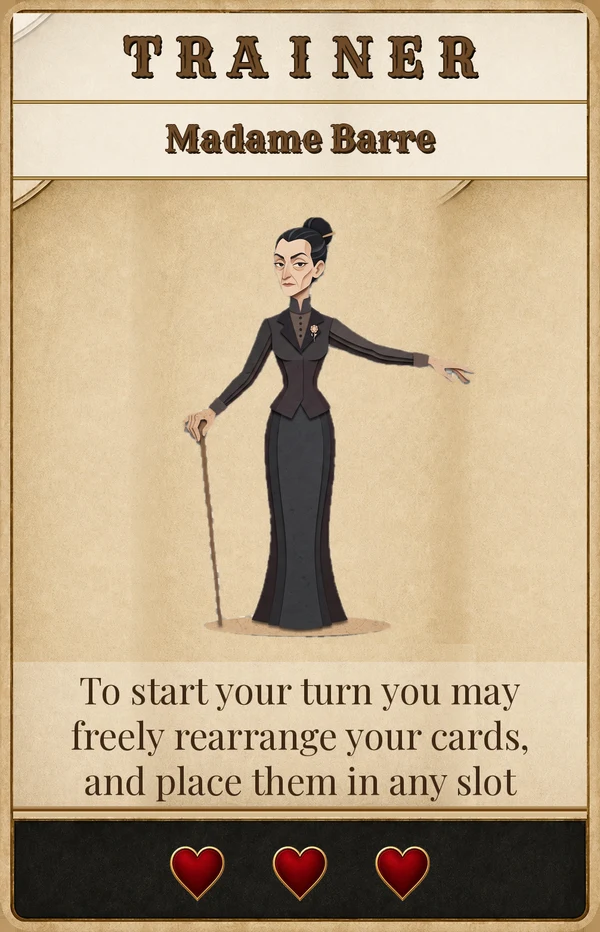
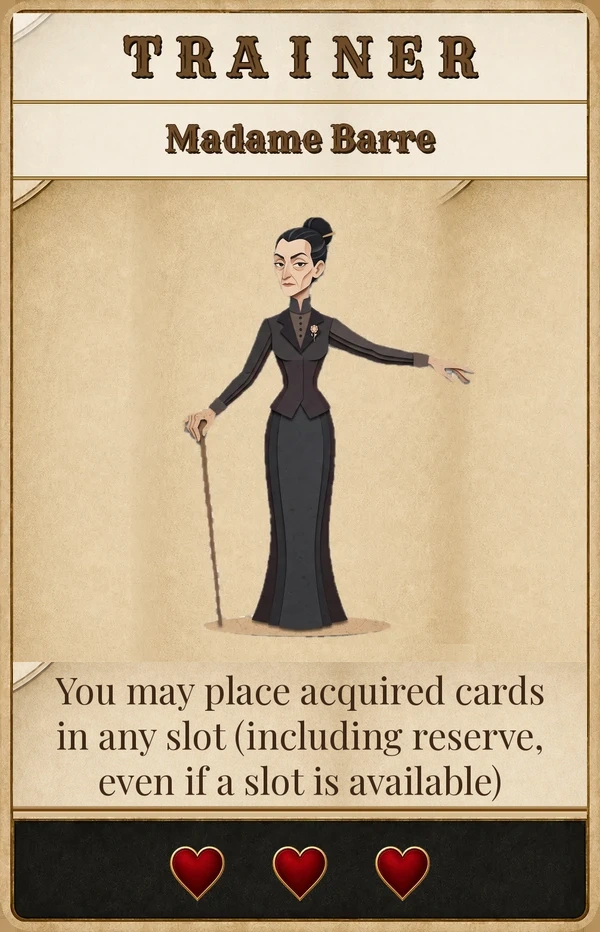
Madame Barre: redesign as acquisition-time placement choice, not free rearrange
- New ability: 'You may place acquired cards in any slot (including
  reserve, even if a slot is available).' Every acquisition (draft, market
  buy, or drawn card) while Barre is active now always offers a genuine
  placement prompt across all 8 mat slots or reserve, even when a matching
  natural slot is sitting open — it's never silently auto-filled.
- Removed the old free-standing 'freeRearrange' start-of-turn action
  entirely (both the engine action and the client's button/UI state).
- applyRearrange() no longer bypasses slot-type checks while Barre is
  active. A card already sitting in a mismatched slot (placed there via
  Barre's acquisition-time choice) may remain there untouched, but the
  normal turn-consuming 'rearrange' action can never introduce a *new*
  mismatch, with or without Barre.
- New rule: once Madame Barre is discarded (hearts hit zero, or a
  Trainer-discard effect), any reserve card that could now fill an empty,
  correctly-matching active slot is moved there automatically
  (relocateReserveOnBarreLeaving, wired into both heartHit and
  discardOwnedCard).
- Updated card_database.json ability text and re-rendered the trainer
  card's ability-text band (webp + print PNG).
- Rewrote/added rules.test.js coverage: freeRearrange is gone, acquisition
  always prompts with Barre active, mismatched-slot placement works,
  rearrange preserves-but-doesn't-create mismatches, and the leaving-play
[…]

Changed region(s): [[0.0, 0.6845, 0.9, 0.8712], [0.93, 0.6845, 0.96, 0.7468]]

diff --git a/engine/engine.js b/engine/engine.js
@@ -326,6 +326,7 @@ function heartHit(state, seat, slotIdx, why) {
   p.slots[slotIdx] = null;
   state.discard.push(id);
   log(state, `${p.name}'s ${card(id).name} (${SLOT_NAMES[slotIdx]}) loses its last heart and leaves the stage! (${why})`);
+  if (id === TRAINERS.BARRE) relocateReserveOnBarreLeaving(state, seat);
 }
 
 // ---------------------------------------------------------------------------
@@ -562,29 +563,29 @@ function acquireCard(state, seat, cardId, chosenSlot) {
       let slot = chosenSlot;
       if (slot != null) {
         if (!allowed.includes(slot)) throw new Error('That card cannot go in that slot.');
+      } else if (trainerActive(state, seat, TRAINERS.BARRE)) {
+        // Madame Barre: every acquisition is offered a genuine placement
+        // choice — any of the 8 mat slots, or reserve — even when a natural
+        // slot is sitting open. Never auto-filled while she's active.
+        pushPending(state, 'placement', seat, { cardId, allowedSlots: allowed, allowReserve: true });
+        return;
       } else if (c.cardType === 'performer') {
         // Default fill order: lowest empty Performer slot; if the row is
         // full, offer the bump-or-reserve choice above.
         slot = [0, 1, 2, 3, 4].find((i) => p.slots[i] == null);
         if (slot == null) {
-          pushPending(state, 'placement', seat, {
-            cardId,
-            allowedSlots: allowed.filter((i) => i <= 4 || trainerActive(state, seat, TRAINERS.BARRE)),
-            allowReserve: true,
-          });
+          pushPending(state, 'placement', seat, { cardId, allowedSlots: allowed, allowReserve: true });
           return;
         }
       } else if (c.cardType === 'trainer') {
         // Slot 8 (Trainer-only) is always tried first, automatically. Once
         // it's taken, the player chooses which of all 3 Trainer slots (6, 7,
         // or 8) to bump — or sends the newly acquired Trainer to reserve
-        // instead. (Madame Barre's passive still widens this to any of the
-        // 8 mat slots, same as every other acquisition while she's active.)
+        // instead.
         if (p.slots[7] == null) {
           slot = 7;
         } else {
-          const trainerAllowed = trainerActive(state, seat, TRAINERS.BARRE) ? allowed : [5, 6, 7];
-          pushPending(state, 'placement', seat, { cardId, allowedSlots: trainerAllowed, allowReserve: true });
+          pushPending(state, 'placement', seat, { cardId, allowedSlots: [5, 6, 7], allowReserve: true });
           return;
         }
       } else {
@@ -640,6 +641,27 @@ function discardOwnedCard(state, seat, cardId) {
   }
   state.hearts[cardId] = 0;
   state.discard.push(cardId);
+  if (cardId === TRAINERS.BARRE) relocateReserveOnBarreLeaving(state, seat);
+}
+
+// Madame Barre: while active, acquired cards may be freely parked in reserve
+// even when a matching active slot is open. Once she's discarded, that
+// standing exception ends — any reserve card that could now fill an empty,
+// correctly-matching active slot is immediately moved there. (Cards already
+// sitting in a mismatched active slot are unaffected — see applyRearrange —
+// and stay put until they themselves are discarded.)
+function relocateReserveOnBarreLeaving(state, seat) {
+  const p = state.players[seat];
+  for (const cardId of [...p.reserve]) {
+    const c = card(cardId);
+    if (!SLOTTABLE.has(c.cardType)) continue;
+    const emptySlot = SLOTS_FOR_TYPE[c.cardType].find((i) => p.slots[i] == null);
+    if (emptySlot == null) continue;
+    const ri = p.reserve.indexOf(cardId);
+    p.reserve.splice(ri, 1);
+    p.slots[emptySlot] = cardId;
+    log(state, `${p.name}'s ${c.name} moves from reserve into ${SLOT_NAMES[emptySlot]} — Madame Barre has left play.`);
+  }
 }
 
 // Jonas Quickfinger: collect exactly 1 unit of a card's printed resource
@@ -709,13 +731,18 @@ function intakeDrawnCard(state, seat, cardId) {
     acquireCard(state, seat, cardId, null);
     return;
   }
-  const natural = SLOTS_FOR_TYPE[c.cardType];
-  const emptySlot = natural.find((i) => p.slots[i] == null);
-  if (emptySlot != null) {
-    placeAcquiredCard(state, seat, cardId, emptySlot);
-    return;
-  }
   const allowed = allowedSlots(state, seat, cardId);
+  if (!trainerActive(state, seat, TRAINERS.BARRE)) {
+    const natural = SLOTS_FOR_TYPE[c.cardType];
+    const emptySlot = natural.find((i) => p.slots[i] == null);
+    if (emptySlot != null) {
+      placeAcquiredCard(state, seat, cardId, emptySlot);
+      return;
+    }
+  }
+  // Madame Barre active: always a genuine choice, any of the 8 mat slots
+  // (or reserve — see the 'cardResourcePlacement' resolution), even when a
+  // natural slot is open.
   pushPending(state, 'cardResourcePlacement', seat, { cardId, allowedSlots: allowed });
 }
 
@@ -1119,18 +1146,6 @@ export function applyAction(state, action) {
       state.turn.done = true;
       break;
     }
-    // Madame Barre: to start your turn, freely rearrange your board (any
-    // card in any slot) without spending your turn. Her passive "place
-    // anywhere" effect for normal acquisitions still applies separately
-    // (see allowedSlots) — this is an additional, explicit free action.
-    case 'freeRearrange': {
-      requireTurn(state, seat);
-      if (state.turn.mainDone) throw new Error('This must be used before your main turn action.');
-      if (!trainerActive(state, seat, TRAINERS.BARRE)) throw new Error('Madame Barre is not your active Trainer.');
-      applyRearrange(state, seat, action.slots, action.reserve);
-      log(state, `${nameOf(state, seat)} freely rearranges their troupe (Madame Barre) without using their turn.`);
-      break;
-    }
     // The Vanishing Valentino: to start your turn, you may end the draft
     // immediately (discarding whatever remains in the draft row) without
     // spending your turn. Unlimited uses while active.
@@ -1444,13 +1459,17 @@ function applyRearrange(state, seat, slots, reserve) {
   if (before.length !== after.length || before.some((id, i) => id !== after[i])) {
     throw new Error('Rearranging cannot add or remove cards.');
   }
-  const barre = trainerActive(state, seat, TRAINERS.BARRE) || slots[5] === TRAINERS.BARRE || slots[6] === TRAINERS.BARRE || slots[7] === TRAINERS.BARRE;
   for (let i = 0; i < 8; i++) {
     const id = slots[i];
     if (!id) continue;
     const c = card(id);
     if (!SLOTTABLE.has(c.cardType)) throw new Error(`${c.name} cannot occupy a mat slot.`);
-    if (!barre && !SLOTS_FOR_TYPE[c.cardType].includes(i)) {
+    // A card already sitting in a mismatched slot (placed there earlier via
+    // Madame Barre's acquisition-time choice) may remain there untouched —
+    // it isn't forced out until it's discarded — but rearranging can never
+    // introduce a *new* type mismatch.
+    const alreadyThere = p.slots[i] === id;
+    if (!alreadyThere && !SLOTS_FOR_TYPE[c.cardType].includes(i)) {
       throw new Error(`${c.name} cannot go in ${SLOT_NAMES[i]}.`);
     }
   }

diff --git a/test/rules.test.js b/test/rules.test.js
@@ -588,21 +588,49 @@ test('The Vanishing Valentino ends the draft immediately, at no turn cost, and i
   assert.equal(s.round, 2);
 });
 
-test('freeRearrange: Madame Barre may rearrange for free (any slot), without ending the turn', () => {
+test('freeRearrange no longer exists — Madame Barre only affects acquisition placement now', () => {
+  const s = freshGame(2);
+  const seat = currentSeat(s);
+  s.players[seat].slots[7] = TRAINERS.BARRE;
+  assert.throws(
+    () => applyAction(s, { type: 'freeRearrange', seat, slots: [...s.players[seat].slots], reserve: [] }),
+    /Unknown action type/
+  );
+});
+
+test('Madame Barre: acquiring a card always offers a genuine placement choice, even with an empty natural slot open', () => {
+  const s = freshGame(2);
+  const seat = currentSeat(s);
+  const p = s.players[seat];
+  p.slots[7] = TRAINERS.BARRE;
+  // All 5 Performer slots are empty — without Barre this would auto-fill
+  // slot 0 silently. With Barre active it must still prompt.
+  const perf = db.performers[0].id;
+  s.draftRow[0] = perf;
+  applyAction(s, { type: 'acquireDraft', seat, cardId: perf });
+  assert.equal(p.slots[0], null, 'not auto-filled while Barre is active');
+  const pending = s.pending.find((x) => x.kind === 'placement');
+  assert.ok(pending, 'expected a placement prompt');
+  assert.deepEqual(pending.data.allowedSlots, [0, 1, 2, 3, 4, 5, 6, 7], 'any of the 8 mat slots');
+  assert.equal(pending.data.allowReserve, true);
+
+  // Choosing reserve, despite an open matching slot, is honored.
+  applyAction(s, { type: 'resolvePending', seat, pendingId: pending.id, toReserve: true });
+  assert.ok(p.reserve.includes(perf));
+  assert.equal(p.slots[0], null);
+});
+
+test('Madame Barre: acquired cards may be placed in a mismatched slot', () => {
   const s = freshGame(2);
   const seat = currentSeat(s);
   const p = s.players[seat];
   p.slots[7] = TRAINERS.BARRE;
   const perf = db.performers[0].id;
-  p.slots[0] = perf;
-  applyAction(s, {
-    type: 'freeRearrange', seat,
-    slots: [null, null, null, null, null, null, perf, TRAINERS.BARRE],
-    reserve: [],
-  });
-  assert.equal(p.slots[6], perf, 'Barre allows any card in any slot');
-  assert.equal(s.turn.seat, seat, 'still the same turn — free rearrange does not end it');
-  assert.equal(s.turn.mainDone, false);
+  s.draftRow[0] = perf;
+  applyAction(s, { type: 'acquireDraft', seat, cardId: perf });
+  const pending = s.pending.find((x) => x.kind === 'placement');
+  applyAction(s, { type: 'resolvePending', seat, pendingId: pending.id, slot: 6 });
+  assert.equal(p.slots[6], perf, 'a Performer may sit in the Prop/Trainer slot while Barre is active');
 });
 
 test('rearrange must conserve cards and respect slot types', () => {
@@ -642,6 +670,47 @@ test('rearrange must conserve cards and respect slot types', () => {
       reserve: [],
     })
   );
+});
+
+test('rearrange: a card already sitting in a mismatched slot (placed there via Madame Barre) may remain there, but a general rearrange can never introduce a new mismatch — even with Barre active', () => {
+  const s = freshGame(2);
+  const seat = currentSeat(s);
+  const p = s.players[seat];
+  const perfA = db.performers[0].id;
+  const perfB = db.performers[1].id;
+  p.slots[7] = TRAINERS.BARRE;
+  p.slots[6] = perfA; // mismatched: a Performer parked in the Prop/Trainer slot
+  // A no-op rearrange (the mismatched card stays exactly where it is) succeeds.
+  applyAction(s, { type: 'rearrange', seat, slots: [...p.slots], reserve: [...p.reserve] });
+  assert.equal(p.slots[6], perfA, 'unchanged mismatched placement survives a rearrange');
+  // But moving a *different* performer into a mismatched slot is still rejected.
+  p.reserve = [perfB];
+  assert.throws(() =>
+    applyAction(s, {
+      type: 'rearrange', seat,
+      slots: [null, null, null, null, null, perfB, perfA, TRAINERS.BARRE],
+      reserve: [],
+    })
+  );
+});
+
+test('Madame Barre leaving play: reserve cards that could now fill an empty matching slot move there automatically', () => {
+  const s = freshGame(2);
+  const seat = currentSeat(s);
+  const other = s.players.find((x) => x.seat !== seat);
+  const p = s.players[seat];
+  p.slots[7] = TRAINERS.BARRE;
+  s.hearts[TRAINERS.BARRE] = 0; // already at 0, next hit discards her immediately
+  const perf = db.performers[0].id;
+  p.reserve = [perf]; // parked in reserve (e.g. via Barre's choice) while slot 0 sits open
+  p.roundStars = 5;
+  other.roundStars = 0;
+
+  assignTrophy(s); // p wins the Trophy -> trophy fatigue hits every one of p's 8 slots
+  assert.equal(p.slots[7], null, 'Madame Barre was discarded');
+  assert.ok(s.discard.includes(TRAINERS.BARRE));
+  assert.equal(p.slots[0], perf, 'the reserved Performer automatically moved into the now-unlocked Performer slot');
+  assert.ok(!p.reserve.includes(perf));
 });
 
 test('deterministic dice phase: collection matches, boosts, trophies, tomato hits', () => {

diff --git a/client/src/main.js b/client/src/main.js
@@ -18,7 +18,6 @@ let assetVersion = ''; // from /api/cards — appended to card image URLs so a b
 // Transient UI state
 let ui = {
   mode: null, // null | 'rearrange' | 'amaraMove'
-  rearrangeFree: false, // true when the current 'rearrange' mode is Madame Barre's free (non-turn-consuming) rearrange
   rearrange: null, // { slots, reserve, picked: {zone, index} | null }
   amaraMove: null, // { from: cardId | null } — Amara the Reliquary's move-a-heart picker
   heartPlan: {}, // cardId -> amount, for heartAssign prompt
@@ -91,7 +90,6 @@ function announceTrophies(newLines) {
 
 function resetTransientUi() {
   ui.mode = null;
-  ui.rearrangeFree = false;
   ui.rearrange = null;
   ui.amaraMove = null;
   ui.heartPlan = {};
@@ -440,9 +438,7 @@ function turnBarHtml(s, p) {
   const buttons = [];
 
   if (ui.mode === 'rearrange') {
-    buttons.push(ui.rearrangeFree
-      ? `<button id="confirmRearrange" class="primary">Confirm free rearrangement (Madame Barre)</button>`
-      : `<button id="confirmRearrange" class="primary">Confirm arrangement (ends turn)</button>`);
+    buttons.push(`<button id="confirmRearrange" class="primary">Confirm arrangement (ends turn)</button>`);
     buttons.push(`<button id="cancelMode">Cancel</button>`);
   } else if (ui.mode === 'amaraMove') {
     buttons.push(`<span class="yourturn">${ui.amaraMove?.from
@@ -456,9 +452,6 @@ function turnBarHtml(s, p) {
       if (trainers.includes('Tomasso-the-Terrible')) {
         const n = dancerCountOf(p);
         buttons.push(`<button id="tomassoBtn" ${n >= 1 ? '' : 'disabled'} title="${n < 1 ? 'You need at least 1 Dancer on your board' : ''}">Tomasso the Terrible: roll ${n} Tomato ${n === 1 ? 'die' : 'dice'} (uses turn)</button>`);
-      }
-      if (trainers.includes('Madame-Barre')) {
-        buttons.push(`<button id="freeRearrangeBtn">Madame Barre: freely rearrange (free)</button>`);
       }
       if (trainers.includes('The-Vanishing-Valentino')) {
         buttons.push(`<button id="valentinoBtn">The Vanishing Valentino: end the draft (free)</button>`);
@@ -507,7 +500,7 @@ function promptHtml(s, p, item) {
     }
     case 'cardResourcePlacement': {
       return promptBox(`
-        <div>You drew <b>${esc(card(item.data.cardId).name)}</b> but its starting slot(s) are full — click a highlighted slot to place it (the current occupant moves to your reserve), or send it to reserve instead.</div>
+        <div>You drew <b>${esc(card(item.data.cardId).name)}</b> — click a highlighted slot to place it (the current occupant, if any, moves to your reserve), or send it to reserve instead.</div>
         <button id="cardResourceToReserve">Send to reserve instead</button>`);
     }
     case 'heartAssign': {
@@ -747,19 +740,11 @@ function wireGameEvents(s, p, pending) {
   // Turn bar.
   document.getElementById('rearrangeBtn')?.addEventListener('click', () => {
     ui.mode = 'rearrange';
-    ui.rearrangeFree = false;
-    ui.rearrange = { slots: [...p.slots], reserve: [...p.reserve], picked: null };
-    render();
-  });
-  document.getElementById('freeRearrangeBtn')?.addEventListener('click', () => {
-    ui.mode = 'rearrange';
-    ui.rearrangeFree = true;
     ui.rearrange = { slots: [...p.slots], reserve: [...p.reserve], picked: null };
     render();
   });
   document.getElementById('cancelMode')?.addEventListener('click', () => {
     ui.mode = null;
-    ui.rearrangeFree = false;
     ui.rearrange = null;
     ui.amaraMove = null;
     render();
@@ -771,11 +756,9 @@ function wireGameEvents(s, p, pending) {
   });
   document.getElementById('confirmRearrange')?.addEventListener('click', () => {
     const r = ui.rearrange;
-    const free = ui.rearrangeFree;
     ui.mode = null;
-    ui.rearrangeFree = false;
     ui.rearrange = null;
-    send({ type: free ? 'freeRearrange' : 'rearrange', slots: r.slots, reserve: r.reserve });
+    send({ type: 'rearrange', slots: r.slots, reserve: r.reserve });
   });
   document.getElementById('tomassoBtn')?.addEventListener('click', () => send({ type: 'tomassoRoll' }));
   document.getElementById('valentinoBtn')?.addEventListener('click', () => send({ type: 'valentinoEndDraft' }));

diff --git a/DESIGN_BRIEF.md b/DESIGN_BRIEF.md
@@ -85,7 +85,7 @@ A later ruling changed slots 6 and 7 from single-purpose (Backdrop-only / Prop-o
 | Professor Stainglass | **Redesigned.** "Acquired cards may be immediately discarded to draw 1 card from the deck." Timing moved from *pre-acquisition* (discarding a card still in the draft row) to *post-acquisition*: right after you draft/buy/draw any card, if you have Stainglass active you're offered a `postAcquireDiscard` prompt — keep the card you just took, or discard it immediately to draw 1 fresh card from the deck into reserve. Not turn-consuming beyond the acquisition itself. |
 | Auric the Alchemist | "When you receive a coin or a heart, you may take it as the other instead." This is **not** a free-standing anytime swap of resources already in your possession — it only triggers at the exact moment you actually receive a coin or heart, whether from a Collection Die payout or from acquiring a Coin/Heart resource card. At that moment you're offered a real choice: keep it as earned, or convert the whole batch to the other type (converted coins route into the normal heart-placement prompt; converted hearts credit as coins immediately, with no placement step). Implemented via a dedicated `auricGainChoice` pending prompt raised by `engine.js`'s `grantCoinsAndHearts()`, which every Coin/Heart gain (Collection Die, resource-card acquisition, and every new Trainer's resource grants alike) now routes through. |
 | Barnaby Pennywhistle | All market purchase costs are reduced by 1 coin (minimum 1); does not reduce the 1-coin market-reset cost. |
-| Madame Barre | **Redesigned (expanded, not replaced).** "To start your turn you may freely rearrange your cards, and place them in any slot." Two effects now stack: (1) the original passive — while Barre is active, any card you place via a normal acquisition may go in *any* mat slot, not just its natural type's slot (`allowedSlots()` returns all 8 slots); (2) new — at the start of your turn, before your main action, you may additionally use a free `freeRearrange` action (same UI/validation as the normal turn-consuming `rearrange`, but any-slot and does not end your turn). |
+| Madame Barre | **Redesigned.** "You may place acquired cards in any slot (including reserve, even if a slot is available)." The old free-standing "rearrange your board for free" turn action (`freeRearrange`) is gone entirely. What remains is purely a placement-time choice: while Barre is active, every card you acquire — drafted, bought, or drawn — always offers a genuine placement prompt (any of the 8 mat slots, not just its natural type's slot, or reserve), even when a matching slot is sitting open; it is never silently auto-filled. A card parked in a mismatched slot this way stays there — the normal turn-consuming `rearrange` action still enforces type-matched slots for any *new* placement, it just leaves an already-mismatched card undisturbed if you don't touch it. Once Madame Barre herself is discarded (hearts hit zero, or a Trainer-discard effect), any card still sitting in reserve that could now fill an empty, correctly-matching active slot is moved there automatically. |
 | Maximillian the Magnate | You may acquire any number of cards from the market in a single turn (normally 1 acquire = 1 turn). |
 | Mesmera the Veiled | "You can choose to re-roll all Tomato dice after viewing the result." After the round's Tomato dice batch is rolled (but before it locks in), you may choose to re-roll the entire batch one time, keeping the new results. Unchanged mechanically, wording only. |
 | The Vanishing Valentino | **Redesigned.** "To start your turn you may choose to end the draft." No longer once-per-game or self-discarding — now a free, unlimited-use, start-of-turn action (`valentinoEndDraft`) that immediately discards the entire draft row and ends the draft phase (moving straight to the dice phase), without spending the turn or discarding the Trainer itself. |
@@ -103,7 +103,7 @@ A later ruling changed slots 6 and 7 from single-purpose (Backdrop-only / Prop-o
 | Bellacanto the Choirmistress | Your Singer-type Performers sitting in reserve *also* collect on a matching Collection Die roll, exactly as if they were on your board (still letter-gated, same boost rules) — in addition to your board performers, not instead of them. |
 | Ezra the Sleight-of-Hand | If you have at least one Illusionist-type Performer on your board, you receive the draft's final leftover card (the one that would normally just be discarded when the draft row drops to 1 card) into your reserve instead. |
 
-Design decisions made ad hoc while implementing the redesigned/new abilities above (flagged here in case any should be revisited): Tomasso's Dancer count is the player's own board only, and 0 Dancers simply makes the action illegal that turn rather than a legal no-op roll of 0 dice. Valentino's once-per-game limit was dropped entirely, and the later 1-heart fragility tradeoff was itself later dropped — Valentino now uses the standard 3 starting hearts like every other Trainer. Barre's original "any slot, always" passive was kept *and* the new free-rearrange action was added on top, rather than one replacing the other. Curio's automatic roll stayed letter-gated (only Acrobats matching the rolled letter benefit) rather than becoming "all your Acrobats regardless of letter."
+Design decisions made ad hoc while implementing the redesigned/new abilities above (flagged here in case any should be revisited): Tomasso's Dancer count is the player's own board only, and 0 Dancers simply makes the action illegal that turn rather than a legal no-op roll of 0 dice. Valentino's once-per-game limit was dropped entirely, and the later 1-heart fragility tradeoff was itself later dropped — Valentino now uses the standard 3 starting hearts like every other Trainer. Barre was later redesigned again: the free-rearrange action was removed outright, and her "any slot" privilege was narrowed to acquisition-time placement only (see her table row above). Curio's automatic roll stayed letter-gated (only Acrobats matching the rolled letter benefit) rather than becoming "all your Acrobats regardless of letter."
 
 ## Rules the written doc left open — documented assumptions
 
